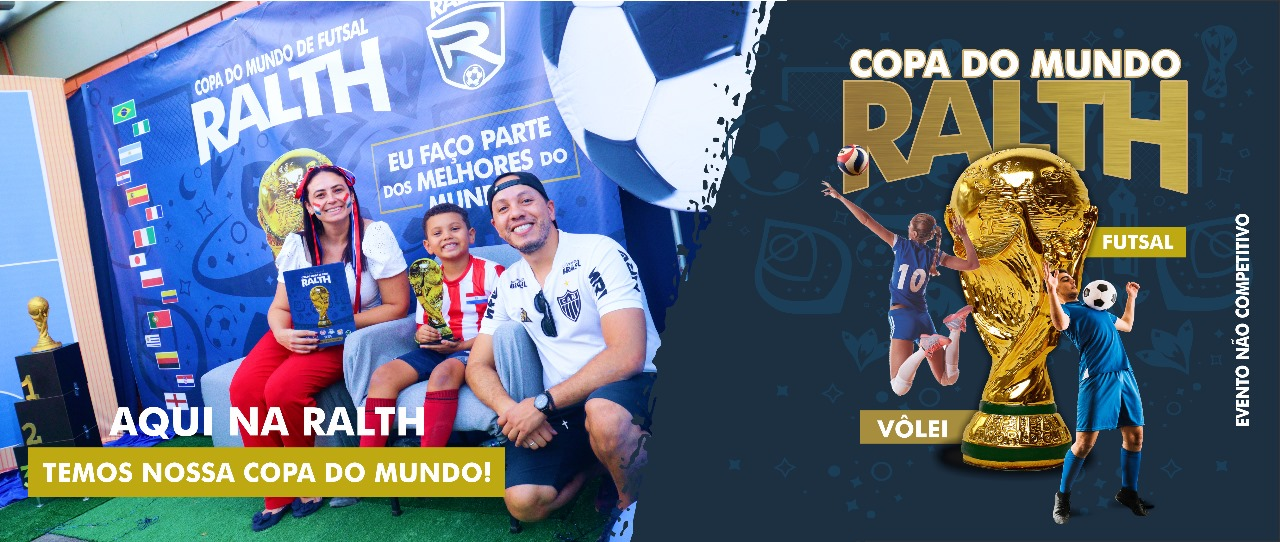
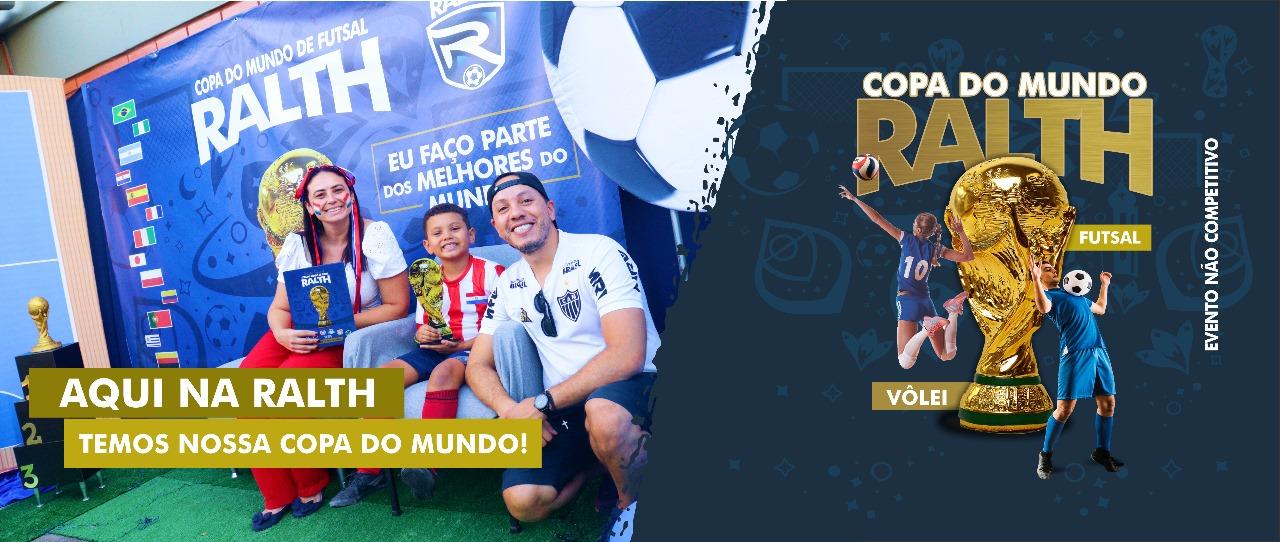
carrossel

Changed region(s): [[0.625, 0.0886, 1.0, 0.9742], [0.0, 0.679, 0.4375, 0.9446], [0.9688, 0.679, 1.0, 0.7675]]

diff --git a/eventos/index.html b/eventos/index.html
@@ -3,12 +3,12 @@
 <head>
     <meta charset="UTF-8">
     <meta name="viewport" content="width=device-width, initial-scale=1.0">
-    <base href="https://arturassis0.github.io/Ralth_Esportes/" target="_self">
+    <!--<base href="https://arturassis0.github.io/Ralth_Esportes/" target="_self">-->
     <link rel="icon" href="img/escudo_ralth_site.png">
     <link href="https://fonts.googleapis.com/css2?family=Montserrat&amp;display=swap" rel="stylesheet">
-    <link rel="stylesheet" href="https://arturassis0.github.io/Ralth_Esportes/css/torneios.css">
-    <link rel="stylesheet" href="css/torneios.css">
-    <link rel="stylesheet" href="main.css">
+    <!--<link rel="stylesheet" href="https://arturassis0.github.io/Ralth_Esportes/css/torneios.css">-->
+    <link rel="stylesheet" href="../css/torneios.css">
+    <link rel="stylesheet" href="../main.css">
     <link rel="stylesheet" href="https://cdnjs.cloudflare.com/ajax/libs/font-awesome/6.5.0/css/all.min.css" />
     <title translate="no">Ralth Esportes - Eventos</title>
 </head>
@@ -54,9 +54,9 @@
                             <span class="categoria">Futsal</span>
                         </div>
                         <div class="card_info">
-                            <h3 class="titulo_evento">Campeonato de Futsal – Janeiro 2025</h3>
-                            <p class="linha_info"><i class="fa-regular fa-calendar"></i> 15 de Janeiro, 2025</p>
-                            <p class="linha_info"><i class="fa-solid fa-location-dot"></i> Ginásio Municipal</p>
+                            <h3 class="titulo_evento">Copa Ralth</h3>
+                            <p class="linha_info"><i class="fa-regular fa-calendar"></i>01 e 08 de junho 2025</p>
+                            <p class="linha_info"><i class="fa-solid fa-location-dot"></i>Colégio Elizabeth Kalil, Ginásio Califórnia</p>
                             <a href="eventos/evento_especifico/" class="btn_evento">Ver Detalhes</a>
                         </div>
                     </div>
@@ -70,19 +70,6 @@
                             <h3 class="titulo_evento">Torneio de Vôlei – Janeiro 2025</h3>
                             <p class="linha_info"><i class="fa-regular fa-calendar"></i> 20 de Janeiro, 2025</p>
                             <p class="linha_info"><i class="fa-solid fa-location-dot"></i> Ginásio Municipal</p>
-                            <a href="eventos/evento_especifico/" class="btn_evento">Ver Detalhes</a>
-                        </div>
-                    </div>
-
-                    <div class="card_evento2" data-cat="Futsal">
-                        <div class="card_img">
-                            <img src="img/img_volei.jpg">
-                            <span class="categoria">Futsal</span>
-                        </div>
-                        <div class="card_info">
-                            <h3 class="titulo_evento">Copa Futsal – Janeiro 2025</h3>
-                            <p class="linha_info"><i class="fa-regular fa-calendar"></i> 28 de Janeiro, 2025</p>
-                            <p class="linha_info"><i class="fa-solid fa-location-dot"></i> Quadra Escolar</p>
                             <a href="eventos/evento_especifico/" class="btn_evento">Ver Detalhes</a>
                         </div>
                     </div>
@@ -119,19 +106,6 @@
                             <h3 class="titulo_evento">Open de Vôlei – Fevereiro 2025</h3>
                             <p class="linha_info"><i class="fa-regular fa-calendar"></i> 16 de Fevereiro, 2025</p>
                             <p class="linha_info"><i class="fa-solid fa-location-dot"></i> Quadra Municipal</p>
-                            <a href="eventos/evento_especifico/" class="btn_evento">Ver Detalhes</a>
-                        </div>
-                    </div>
-
-                    <div class="card_evento2" data-cat="Vôlei">
-                        <div class="card_img">
-                            <img src="img/img_volei.jpg">
-                            <span class="categoria">Vôlei</span>
-                        </div>
-                        <div class="card_info">
-                            <h3 class="titulo_evento">Torneio Juvenil – Fevereiro 2025</h3>
-                            <p class="linha_info"><i class="fa-regular fa-calendar"></i> 25 de Fevereiro, 2025</p>
-                            <p class="linha_info"><i class="fa-solid fa-location-dot"></i> Escola Estadual</p>
                             <a href="eventos/evento_especifico/" class="btn_evento">Ver Detalhes</a>
                         </div>
                     </div>

diff --git a/main.css b/main.css
@@ -106,90 +106,80 @@ body {
 
 .img1 {
     background-image: url(img/carrossel-1.jpeg);
-    background-size: 97%;
     background-color: rgb(31, 84, 124);
-    height: 100%;
+    background-size: cover;
     background-repeat: no-repeat;
     background-position: center;
 }
 
 .img2 {
     background-image: url(img/carrossel-2.jpeg);
-    background-size: 97%;
+    background-size: cover;
     background-color: rgb(31, 84, 124);
-    height: 100%;
     background-repeat: no-repeat;
     background-position: center;
 }
 
 .img3 {
     background-image: url(img/carrossel-3.jpeg);
-    background-size: 97%;
+    background-size: cover;
     background-color: rgb(31, 84, 124);
-    height: 100%;
     background-repeat: no-repeat;
     background-position: center;
 }
 
 .img4 {
     background-image: url(img/carrossel-4.jpeg);
-    background-size: 97%;
+    background-size: cover;
     background-color: rgb(31, 84, 124);
-    height: 100%;
     background-repeat: no-repeat;
     background-position: center;
 }
 
 .img5 {
     background-image: url(img/carrossel-5.jpeg);
-    background-size: 97%;
+    background-size: cover;
     background-color: rgb(31, 84, 124);
-    height: 100%;
     background-repeat: no-repeat;
     background-position: center;
 }
 
 .img6 {
     background-image: url(img/carrossel-6.jpeg);
-    background-size: 97%;
+    background-size: cover;
     background-color: rgb(31, 84, 124);
-    height: 100%;
     background-repeat: no-repeat;
     background-position: center;
 }
 
 .img7 {
     background-image: url(img/carrossel-7.jpeg);
-    background-size: 97%;
+    background-size: cover;
     background-color: rgb(31, 84, 124);
-    height: 100%;
     background-repeat: no-repeat;
     background-position: center;
 }
 
 .img8 {
     background-image: url(img/carrossel-8.jpeg);
-    background-size: 97%;
+    background-size: cover;
     background-color: rgb(31, 84, 124);
-    height: 100%;
     background-repeat: no-repeat;
     background-position: center;
 }
 
 .img9 {
     background-image: url(img/carrossel-9.jpeg);
-    background-size: 97%;
+    background-size: cover;
     background-color: rgb(31, 84, 124);
-    height: 100%;
     background-repeat: no-repeat;
     background-position: center;
 }
 
 .img10 {
     background-image: url(img/carrossel-10.jpeg);
-    background-size: 97%;
+    background-size: cover;
     background-color: rgb(31, 84, 124);
-    height: 100%;
     background-repeat: no-repeat;
     background-position: center;
 }

diff --git a/css/torneios.css b/css/torneios.css
@@ -13,7 +13,8 @@
 .mes_eventos {
     display: flex;
     flex-direction: row;
-    justify-content: space-between;
+    justify-content: center;
+    margin-left: 12%;
     gap: 2rem;
 }
 
@@ -24,6 +25,7 @@
     border-left: 6px solid rgb(31, 84, 124);
     padding-left: 12px;
     margin-bottom: 0.5rem;
+    margin-left: 12%;
 }
 
 /* ====== BOTÕES DE FILTRO ====== */
@@ -59,7 +61,7 @@
 .grid_eventos {
     display: grid;
     grid-template-columns: repeat(auto-fit, minmax(260px, 1fr));
-    gap: 30px;
+    row-gap: 500px;
     margin-top: 20px;
     width: 100%;
 }
@@ -70,13 +72,12 @@
     border-radius: 20px;
     overflow: hidden;
     box-shadow: 0 4px 14px rgba(0,0,0,0.08);
-
-    /* removido o width fixo que distorcia o layout */
-    width: 100%;
+    width: 70%;
     display: flex;
     flex-direction: column;
     transition: 0.25s;
 }
+
 
 .card_evento2:hover {
     transform: translateY(-4px);
@@ -127,6 +128,7 @@
     margin-bottom: 6px;
     display: flex;
     align-items: center;
+    margin-left: -7%;
     gap: 8px;
 }
 
